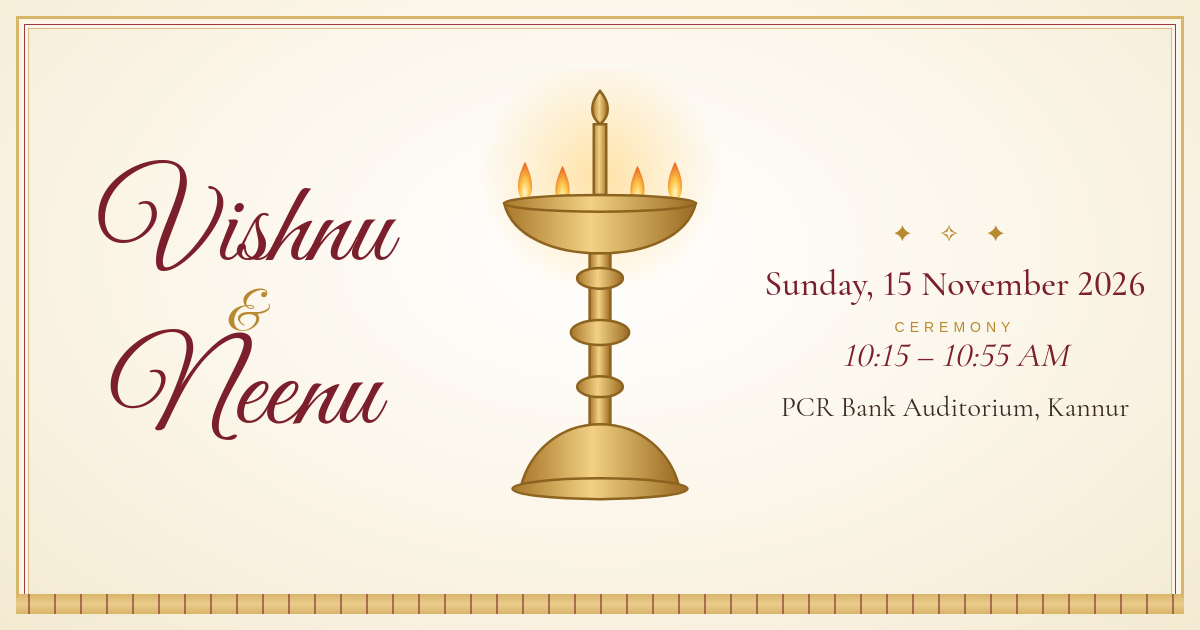
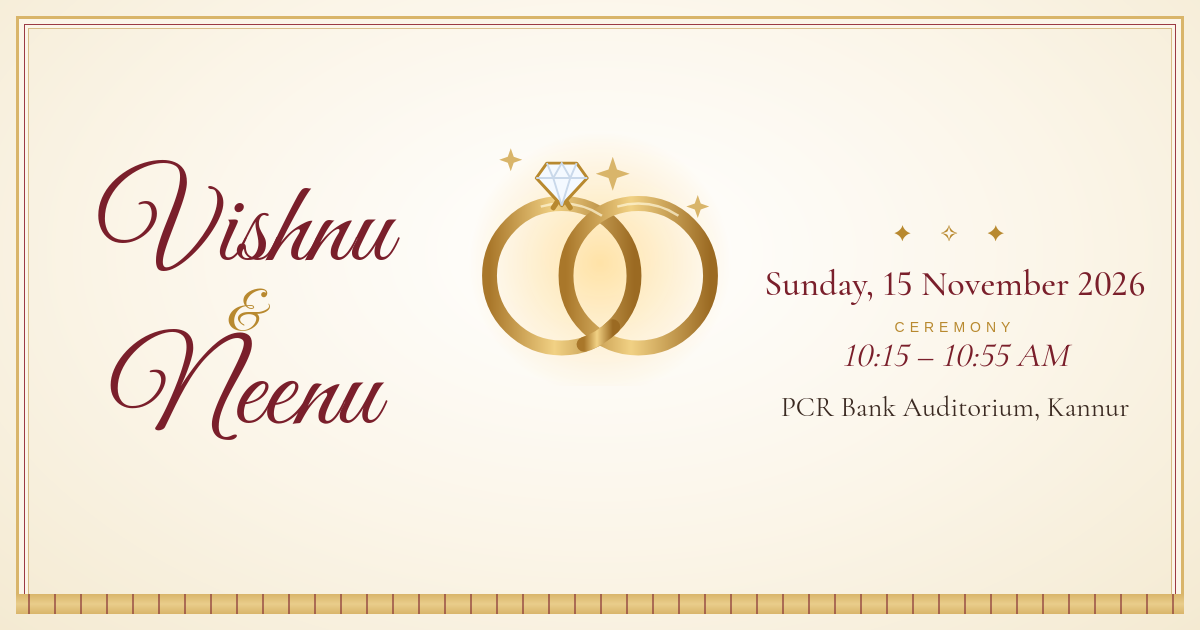
Replace the lamp with interlocked gold wedding rings
Cover, Thank You page and preview card now show two gold rings with a
solitaire and twinkling sparkles; door lamps removed from the venue sketch.

Changed region(s): [[0.4008, 0.1508, 0.6167, 0.8143]]

diff --git a/index.html b/index.html
@@ -9,12 +9,12 @@
 <meta property="og:url" content="https://vishnu13pv.github.io/vishnu-neenu-wedding/">
 <meta property="og:title" content="Vishnu &amp; Neenu — Wedding Invitation">
 <meta property="og:description" content="Sunday, 15 November 2026 · Ceremony 10:15 – 10:55 AM · PCR Bank Auditorium, Dharmashala, Kannur. We would love to have you with us.">
-<meta property="og:image" content="https://vishnu13pv.github.io/vishnu-neenu-wedding/preview.png?v=3">
-<meta property="og:image:secure_url" content="https://vishnu13pv.github.io/vishnu-neenu-wedding/preview.png?v=3">
+<meta property="og:image" content="https://vishnu13pv.github.io/vishnu-neenu-wedding/preview.png?v=4">
+<meta property="og:image:secure_url" content="https://vishnu13pv.github.io/vishnu-neenu-wedding/preview.png?v=4">
 <meta property="og:image:type" content="image/png">
 <meta property="og:image:width" content="1200">
 <meta property="og:image:height" content="630">
-<meta property="og:image:alt" content="A lit traditional lamp with the names Vishnu and Neenu">
+<meta property="og:image:alt" content="Two gold wedding rings with the names Vishnu and Neenu">
 <meta name="twitter:card" content="summary_large_image">
 <title>Vishnu & Neenu — Wedding Invitation</title>
 <link rel="preconnect" href="https://fonts.googleapis.com">
@@ -87,13 +87,17 @@ body{overflow-x:hidden}
 .jasmine .strand:nth-child(3n){animation-delay:-3.1s}
 @keyframes sway{0%,100%{transform:rotate(-1.6deg)}50%{transform:rotate(1.6deg)}}
 
-/* ---------- nilavilakku ---------- */
-.lamp{width:120px;height:auto;display:block;margin:0 auto 4px;overflow:visible}
-#nilavilakku .brass{fill:url(#brass);stroke:#8c6420;stroke-width:1.2}
-#nilavilakku .flame{transform-box:fill-box;transform-origin:50% 100%;animation:flicker 1.6s ease-in-out infinite}
-#nilavilakku .flame:nth-of-type(2){animation-delay:-.4s}#nilavilakku .flame:nth-of-type(3){animation-delay:-.9s}#nilavilakku .flame:nth-of-type(4){animation-delay:-1.2s}
-#nilavilakku .glow{animation:glow 2.4s ease-in-out infinite}
-@keyframes flicker{0%,100%{transform:scale(1,1) rotate(0)}25%{transform:scale(.92,1.08) rotate(-3deg)}55%{transform:scale(1.05,.93) rotate(2deg)}80%{transform:scale(.97,1.04) rotate(-1deg)}}
+/* ---------- wedding rings ---------- */
+.rings{width:170px;height:auto;display:block;margin:0 auto 10px;overflow:visible}
+#rings .band{fill:none;stroke:url(#brass);stroke-width:7;stroke-linecap:round}
+#rings .shine{fill:none;stroke:#fff6d8;stroke-width:1.2;opacity:.7;stroke-dasharray:30 184;stroke-dashoffset:-150}
+#rings .setting{fill:none;stroke:#b8892f;stroke-width:2.4;stroke-linecap:round;stroke-linejoin:round}
+#rings .gem{fill:#f4f9ff;stroke:#b8892f;stroke-width:1.4;stroke-linejoin:round}
+#rings .facet{fill:none;stroke:#c9d8ea;stroke-width:.9}
+#rings .sparkle{fill:var(--gold-soft);transform-box:fill-box;transform-origin:center;animation:twinkle 2.4s ease-in-out infinite}
+#rings .sparkle:nth-of-type(2){animation-delay:-.8s}#rings .sparkle:nth-of-type(3){animation-delay:-1.6s}
+#rings .glow{animation:glow 2.4s ease-in-out infinite}
+@keyframes twinkle{0%,100%{transform:scale(.4);opacity:.3}50%{transform:scale(1);opacity:1}}
 @keyframes glow{50%{opacity:.55}}
 
 /* ---------- couple ---------- */
@@ -144,11 +148,11 @@ body{overflow-x:hidden}
 
 @media (max-height:760px){
   .page-inner{padding-top:48px;padding-bottom:70px}
-  .lamp{width:96px}
+  .rings{width:140px}
   .venue-sketch{max-width:270px}
 }
 @media (prefers-reduced-motion:reduce){
-  .jasmine .strand,#nilavilakku .flame,#nilavilakku .glow,.petal,.venue-sketch .bulbs circle{animation:none!important}
+  .jasmine .strand,#rings .sparkle,#rings .glow,.petal,.venue-sketch .bulbs circle{animation:none!important}
   .garland .draw,.venue-sketch .draw{stroke-dasharray:none;stroke-dashoffset:0;animation:none!important}
   .petal{display:none}
 }
@@ -160,30 +164,23 @@ body{overflow-x:hidden}
     <linearGradient id="brass" x1="0" x2="1">
       <stop offset="0" stop-color="#a9772a"/><stop offset=".45" stop-color="#f1d184"/><stop offset="1" stop-color="#9b6a22"/>
     </linearGradient>
-    <radialGradient id="flameFill" cx=".5" cy=".75" r=".7">
-      <stop offset="0" stop-color="#fff6c9"/><stop offset=".45" stop-color="#ffc94d"/><stop offset="1" stop-color="#e86a1f"/>
-    </radialGradient>
     <radialGradient id="halo"><stop offset="0" stop-color="#ffd98a" stop-opacity=".75"/><stop offset="1" stop-color="#ffd98a" stop-opacity="0"/></radialGradient>
-    <symbol id="nilavilakku" viewBox="0 0 120 210">
-      <circle class="glow" cx="60" cy="52" r="58" fill="url(#halo)"/>
-      <!-- finial -->
-      <path class="brass" d="M60 10c-5 6-5 12 0 16 5-4 5-10 0-16zM57 26h6v34h-6z"/>
-      <!-- wick flames on the rim -->
-      <path class="flame" fill="url(#flameFill)" d="M24 64c-5-5-4-12 0-20 4 8 5 15 0 20z"/>
-      <path class="flame" fill="url(#flameFill)" d="M42 66c-5-5-4-12 0-20 4 8 5 15 0 20z"/>
-      <path class="flame" fill="url(#flameFill)" d="M78 66c-5-5-4-12 0-20 4 8 5 15 0 20z"/>
-      <path class="flame" fill="url(#flameFill)" d="M96 64c-5-5-4-12 0-20 4 8 5 15 0 20z"/>
-      <!-- bowl -->
-      <path class="brass" d="M14 64h92c-4 16-24 24-46 24S18 80 14 64z"/>
-      <ellipse class="brass" cx="60" cy="64" rx="46" ry="4"/>
-      <!-- stem with rings -->
-      <path class="brass" d="M55 88h10v90H55z"/>
-      <ellipse class="brass" cx="60" cy="100" rx="11" ry="5"/>
-      <ellipse class="brass" cx="60" cy="126" rx="14" ry="6"/>
-      <ellipse class="brass" cx="60" cy="152" rx="11" ry="5"/>
-      <!-- base -->
-      <path class="brass" d="M60 170c-20 0-34 14-38 30h76c-4-16-18-30-38-30z"/>
-      <ellipse class="brass" cx="60" cy="201" rx="42" ry="5"/>
+    <symbol id="rings" viewBox="0 0 160 130">
+      <circle class="glow" cx="80" cy="72" r="62" fill="url(#halo)"/>
+      <!-- two interlocked gold bands -->
+      <circle class="band" cx="62" cy="78" r="34"/>
+      <circle class="band" cx="98" cy="78" r="34"/>
+      <path class="band" d="M86 102A34 34 0 0 1 72.5 110.3"/>
+      <circle class="shine" cx="62" cy="78" r="34"/>
+      <circle class="shine" cx="98" cy="78" r="34"/>
+      <!-- solitaire on the left ring -->
+      <path class="setting" d="M58 46l4-6 4 6"/>
+      <path class="gem" d="M50 32l5-7h14l5 7-12 13z"/>
+      <path class="facet" d="M50 32h24M55 25l3 7 4 13M69 25l-3 7-4 13M58 32l4-7 4 7"/>
+      <!-- twinkles -->
+      <path class="sparkle" d="M86 22l2 6 6 2-6 2-2 6-2-6-6-2 6-2z"/>
+      <path class="sparkle" d="M38 18l1.4 4 4 1.4-4 1.4-1.4 4-1.4-4-4-1.4 4-1.4z"/>
+      <path class="sparkle" d="M126 40l1.4 4 4 1.4-4 1.4-1.4 4-1.4-4-4-1.4 4-1.4z"/>
     </symbol>
   </defs>
 </svg>
@@ -196,7 +193,7 @@ body{overflow-x:hidden}
       <div class="jasmine" data-strands="9"></div>
       <div class="petals"></div>
       <div class="page-inner">
-        <svg class="lamp" viewBox="0 0 120 210" role="img" aria-label="A lit nilavilakku"><use href="#nilavilakku"/></svg>
+        <svg class="rings" viewBox="0 0 160 130" role="img" aria-label="Two interlocked wedding rings"><use href="#rings"/></svg>
         <div class="names">Vishnu</div>
         <div class="amp">&amp;</div>
         <div class="names">Neenu</div>
@@ -283,10 +280,6 @@ body{overflow-x:hidden}
             <!-- banana plants at the entrance -->
             <path class="draw leaf" d="M90 178V128M90 132C78 118 70 116 62 122C72 130 82 132 90 132M90 140C100 124 110 120 118 124C110 132 100 138 90 140M90 128C88 112 92 104 96 98"/>
             <path class="draw leaf" d="M230 178V128M230 132C242 118 250 116 258 122C248 130 238 132 230 132M230 140C220 124 210 120 202 124C210 132 220 138 230 140M230 128C232 112 228 104 224 98"/>
-            <!-- small lamps at the door -->
-            <path class="draw gold" d="M142 176v-10M138 166h8M178 176v-10M174 166h8"/>
-            <circle cx="142" cy="162" r="2.5" fill="#f6a33a" stroke="none" style="stroke:none"/>
-            <circle cx="178" cy="162" r="2.5" fill="#f6a33a" stroke="none" style="stroke:none"/>
             <!-- pookkalam at the entrance -->
             <ellipse cx="160" cy="186" rx="22" ry="5" fill="#f2a33a" opacity=".55" stroke="none" style="stroke:none"/>
             <ellipse cx="160" cy="186" rx="12" ry="2.8" fill="var(--maroon-soft)" opacity=".6" stroke="none" style="stroke:none"/>
@@ -294,7 +287,7 @@ body{overflow-x:hidden}
           </svg>
           <div class="location-title">PCR Bank Auditorium</div>
           <div class="venue-sub">Dharmashala, NH 66<br>Kannur · Kerala</div>
-          <div class="location-note">We'll light the lamps and string the jasmine. All we need now is you.</div>
+          <div class="location-note">We'll string the lights and the jasmine. All we need now is you.</div>
           <a class="map-btn" href="https://maps.app.goo.gl/8HVjMUzHRXcdHvLg8" target="_blank" rel="noopener">OPEN IN GOOGLE MAPS</a>
         </div>
         <div class="ornament">❦</div>
@@ -325,7 +318,7 @@ body{overflow-x:hidden}
     <section class="page" data-page="5">
       <div class="petals"></div>
       <div class="page-inner">
-        <svg class="lamp" viewBox="0 0 120 210" aria-hidden="true" style="width:84px"><use href="#nilavilakku"/></svg>
+        <svg class="rings" viewBox="0 0 160 130" aria-hidden="true" style="width:120px"><use href="#rings"/></svg>
         <div class="kicker">With Gratitude</div>
         <div class="title">Thank You</div>
         <div class="ornament">✦ ♡ ✦</div>
